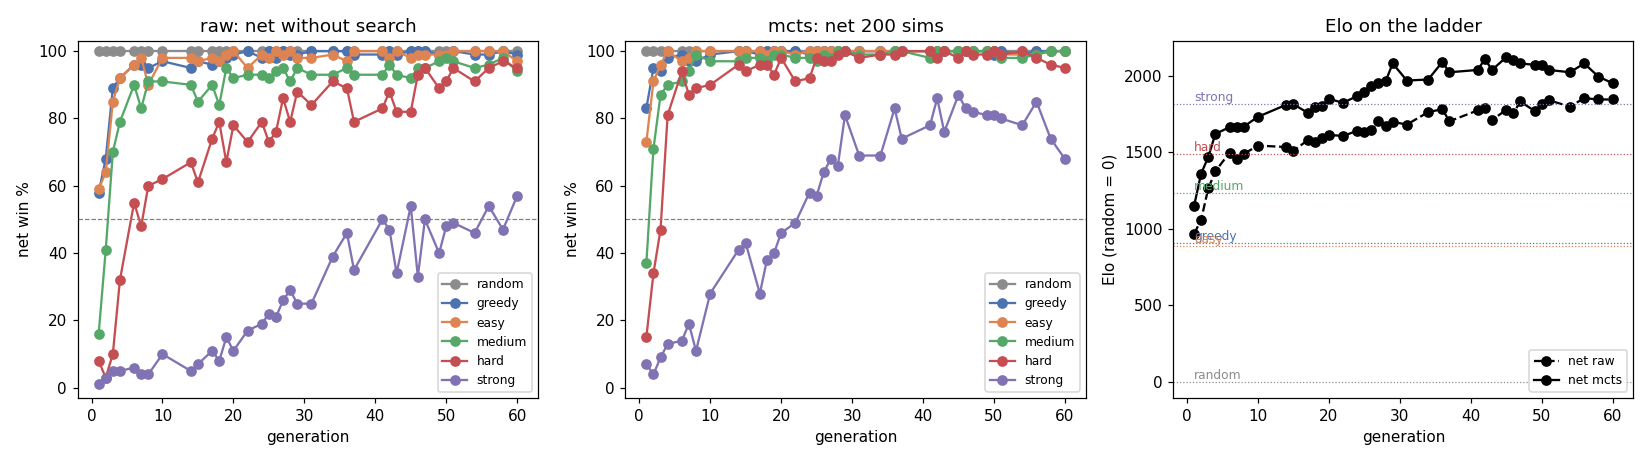
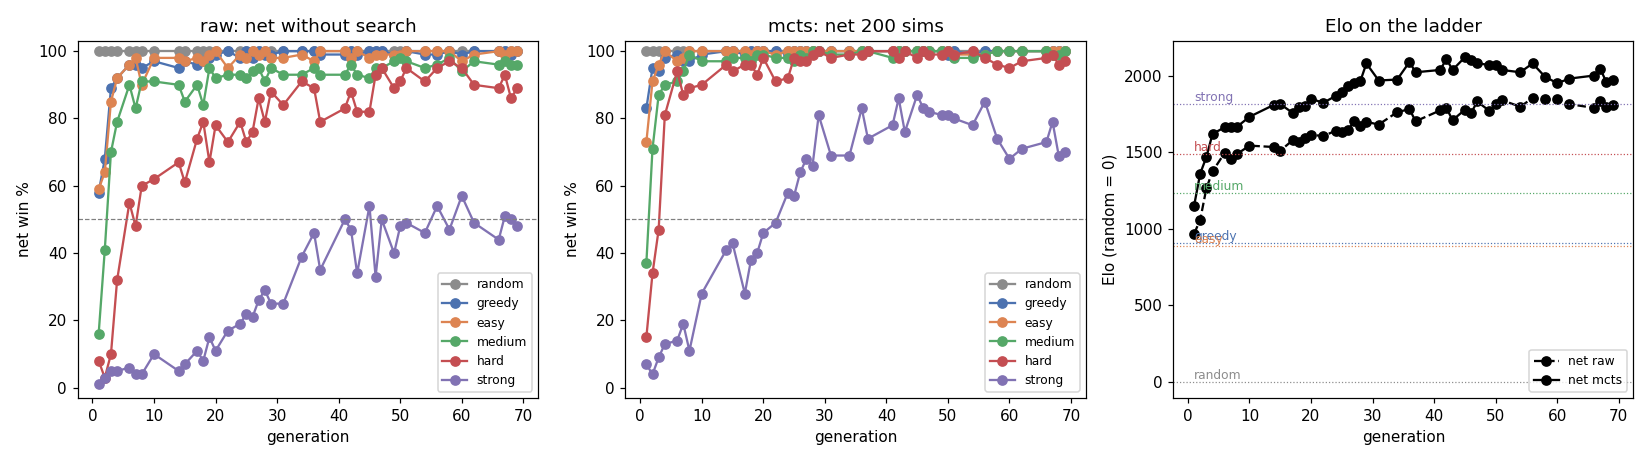
Series 9: gens 45-60 re-evaluated with 300 games per cell; the MCTS drop after gen 51 is real (2122 -> 1961), raw flat at ~1850

diff --git a/docs/graph_s9.md b/docs/graph_s9.md
@@ -1,14 +1,14 @@
 # Part 4, series 9: the graph net plays 5x5 (run g5)
 
-Generated by `scripts/graph_s9.py report` (2026-11-18 15:57). Protocol: docs/plan_part4.md (series 9), configs/g5.yaml (= configs/az5b.yaml apart from the net, from scratch, and the run plumbing). Dot = az5 (rounds 1-31) then az5b (rounds 32-119) on the same ladder; round = generation (accepted or not).
+Generated by `scripts/graph_s9.py report` (2026-11-18 19:56). Protocol: docs/plan_part4.md (series 9), configs/g5.yaml (= configs/az5b.yaml apart from the net, from scratch, and the run plumbing). Dot = az5 (rounds 1-31) then az5b (rounds 32-119) on the same ladder; round = generation (accepted or not).
 
-State: 61 rounds done, 38 accepted, running. Training hours: 25.6 (to the last evaluated generation).
+State: 69 rounds done, 43 accepted, running. Training hours: 30.1 (to the last evaluated generation).
 
 Workers and limits: from the start 2026-11-17: 6 self-play workers, no GPU memory limit, no nice (user: machine free today; 8 workers measured 19.5k vs 19.0k evals/s at 6, not worth it).
 
-Stop rule (amendment, 2026-11-17, round 16): at least 117 rounds and the best MCTS Elo up by <= 20 over the last 20 rounds; 6 rejects in a row as the fallback; hard cap 250 rounds. Now: judged at round 60 of 117, best MCTS Elo 2127, +32 over the last 20 rounds.
+Stop rule (amendment, 2026-11-17, round 16): at least 117 rounds and the best MCTS Elo up by <= 20 over the last 20 rounds; 6 rejects in a row as the fallback; hard cap 250 rounds. Now: judged at round 69 of 117, best MCTS Elo 2127, +0 over the last 20 rounds.
 
-Pace: self-play 23 min per round, 17920 evals/s (last 5 rounds).
+Pace: self-play 28 min per round, 14800 evals/s (last 5 rounds).
 
 ## Comparison by rounds
 
@@ -25,12 +25,24 @@ Elo (MCTS 200 / without thinking) of the last accepted, evaluated generation wit
 |---:|---:|---|---:|---:|---|---:|
 | 12 | 28 | 1966 / 1673 | 1966 | 31 | 1870 / 1614 | 1895 |
 | 24 | 56 | 2096 / 1856 | 2127 | 90 | 2151 / 1713 | 2164 |
-| 48 | 60 (not yet) | 1954 / 1861 | 2127 | 114 (Dot ended at 28.4 h) | 2005 / 1684 | 2164 |
+| 48 | 69 (not yet) | 1979 / 1808 | 2127 | 114 (Dot ended at 28.4 h) | 2005 / 1684 | 2164 |
 
 ## Re-evaluation of gens 45-60, 300 games per cell
 
-Second amendment (user, 2026-11-18, round 61): is the drop with MCTS after gen 56 noise? The same ladder, 300 new games per cell (fresh seeds), raw and MCTS 200; Elo on the common opponents with a 95 % parametric bootstrap interval; 100-games Elo for comparison. Running.
+Second amendment (user, 2026-11-18, round 61): is the drop with MCTS after gen 56 noise? The same ladder, 300 new games per cell (fresh seeds), raw and MCTS 200; Elo on the common opponents with a 95 % parametric bootstrap interval; 100-games Elo for comparison. 10 generations done.
 
+| round | Elo MCTS (300) | 95 % | Elo MCTS (100) | Elo raw (300) | 95 % | Elo raw (100) | MCTS vs hard / strong (300) |
+|---:|---:|---|---:|---:|---|---:|---|
+| 45 | 2094 | 2052-2150 | 2127 | 1748 | 1718-1780 | 1787 | 99 / 82 |
+| 46 | 2072 | 2033-2119 | 2106 | 1782 | 1752-1816 | 1759 | 99 / 79 |
+| 47 | 2091 | 2049-2146 | 2086 | 1814 | 1784-1842 | 1838 | 98 / 82 |
+| 49 | 2122 | 2078-2176 | 2077 | 1830 | 1803-1860 | 1775 | 99 / 85 |
+| 50 | 2098 | 2058-2150 | 2077 | 1857 | 1830-1888 | 1820 | 99 / 82 |
+| 51 | 2094 | 2052-2150 | 2051 | 1850 | 1823-1880 | 1842 | 98 / 83 |
+| 54 | 2036 | 2002-2081 | 2035 | 1844 | 1816-1873 | 1799 | 99 / 75 |
+| 56 | 1995 | 1963-2033 | 2096 | 1854 | 1824-1885 | 1856 | 98 / 72 |
+| 58 | 2026 | 1993-2066 | 1999 | 1841 | 1814-1870 | 1847 | 97 / 77 |
+| 60 | 1961 | 1930-1997 | 1954 | 1853 | 1821-1883 | 1861 | 96 / 69 |
 
 ## Rounds (accepted, evaluated generations)
 
@@ -76,5 +88,10 @@ Ladder: win % with MCTS 200 / without thinking, 100 games per cell. Parity probe
 | 56 | 23.9 | 57 | 100 / 100 | 100 / 99 | 99 / 100 | 99 / 96 | 98 / 95 | 85 / 54 | 2096 / 1856 | 69.8 | 86.6 | 92.5 |
 | 58 | 24.8 | 66 | 100 / 100 | 100 / 100 | 100 / 100 | 100 / 98 | 96 / 97 | 74 / 47 | 1999 / 1847 | 72.8 | 86.2 | 92.9 |
 | 60 | 25.6 | 69 | 100 / 100 | 100 / 99 | 100 / 97 | 100 / 94 | 95 / 95 | 68 / 57 | 1954 / 1861 | 73.2 | 87.5 | 93.0 |
+| 62 | 26.5 | 62 | 100 / 100 | 100 / 100 | 100 / 99 | 100 / 97 | 97 / 90 | 71 / 49 | 1985 / 1820 | 70.6 | 83.6 | 91.9 |
+| 66 | 28.5 | 69 | 100 / 100 | 100 / 100 | 100 / 100 | 100 / 96 | 98 / 89 | 73 / 44 | 2005 / 1791 | 72.6 | 87.4 | 92.3 |
+| 67 | 29.1 | 72 | 100 / 100 | 100 / 100 | 100 / 99 | 99 / 97 | 99 / 93 | 79 / 51 | 2051 / 1842 | 73.2 | 86.6 | 93.5 |
+| 68 | 29.6 | 56 | 100 / 100 | 100 / 99 | 100 / 100 | 99 / 96 | 96 / 86 | 69 / 50 | 1960 / 1799 | 73.3 | 87.0 | 93.2 |
+| 69 | 30.1 | 58 | 100 / 100 | 100 / 100 | 100 / 100 | 100 / 96 | 97 / 89 | 70 / 48 | 1979 / 1808 | 74.0 | 87.3 | 92.9 |
 
 ![g5 next to Dot](graph_s9.png)

diff --git a/docs/g5_ladder.md b/docs/g5_ladder.md
@@ -1,6 +1,6 @@
 # AlphaZero 5x5 (g5) — ladder per accepted generation
 
-Generated by `scripts/az_eval.py` from `runs/g5` (2026-11-18 15:25). Win % of the net, 100 games per cell, first mover alternating; raw = policy argmax without search, mcts = 200 simulations. Elo: Bradley-Terry vs the fixed ladder anchors, random = 0. strong here: {'node_budget': 23000}.
+Generated by `scripts/az_eval.py` from `runs/g5` (2026-11-18 19:55). Win % of the net, 100 games per cell, first mover alternating; raw = policy argmax without search, mcts = 200 simulations. Elo: Bradley-Terry vs the fixed ladder anchors, random = 0. strong here: {'node_budget': 23000}.
 
 Anchor Elo (from the ladder in docs/results.md): random 0, greedy 905, easy 888, medium 1235, hard 1488, strong 1815.
 
@@ -44,3 +44,8 @@ Anchor Elo (from the ladder in docs/results.md): random 0, greedy 905, easy 888,
 | 56 | 57 | 100 | 99 | 100 | 96 | 95 | 54 | 1856 | 100 | 100 | 99 | 99 | 98 | 85 | 2082 |
 | 58 | 66 | 100 | 100 | 100 | 98 | 97 | 47 | 1847 | 100 | 100 | 100 | 100 | 96 | 74 | 1996 |
 | 60 | 69 | 100 | 99 | 97 | 94 | 95 | 57 | 1847 | 100 | 100 | 100 | 100 | 95 | 68 | 1953 |
+| 62 | 62 | 100 | 100 | 99 | 97 | 90 | 49 | 1816 | 100 | 100 | 100 | 100 | 97 | 71 | 1983 |
+| 66 | 69 | 100 | 100 | 100 | 96 | 89 | 44 | 1791 | 100 | 100 | 100 | 100 | 98 | 73 | 2003 |
+| 67 | 72 | 100 | 100 | 99 | 97 | 93 | 51 | 1838 | 100 | 100 | 100 | 99 | 99 | 79 | 2048 |
+| 68 | 56 | 100 | 99 | 100 | 96 | 86 | 50 | 1799 | 100 | 100 | 100 | 99 | 96 | 69 | 1959 |
+| 69 | 58 | 100 | 100 | 100 | 96 | 89 | 48 | 1808 | 100 | 100 | 100 | 100 | 97 | 70 | 1977 |

diff --git a/docs/overnight.md b/docs/overnight.md
@@ -1363,3 +1363,11 @@ training"; no 7x10; Dot-2 is 6x64; Dot level = MCTS ladder Elo >= 2100 and
   three modes. Gens 45-60 re-evaluated with 300 games per cell in the background (tmux g5re, runs/g5/recheck.log)
   to tell the MCTS drop at gens 58/60 (1999, 1954 vs 2096 at gen 56; 100-games 95 % interval about +-60) from noise.
   Picks use the 300-games Elo where it exists; the stop rule stays on the 100-games evaluations.
+
+### 2026-11-18 20:10 — series 9: 300-games re-evaluation of gens 45-60 done
+
+- The MCTS drop is real, not noise: MCTS Elo (300 games) 2072-2122 for gens 45-51, 1961-2036 for gens 54-60
+  (gen 49 2122 [2078, 2176] vs gen 60 1961 [1930, 1997]); MCTS vs strong 79-85 % -> 69-77 %. Raw Elo rose to about
+  1850 by gen 50 and stayed there. The search adds less: MCTS - raw 346 at gen 45, 108 at gen 60.
+- Gen 56's 100-games 2096 was lucky (300 games: 1995). With the 300-games values the best MCTS generation is 49.
+- Self-play slowed from 23 to 28 min per round while the re-evaluation ran (16:00-19:35); training continued.
